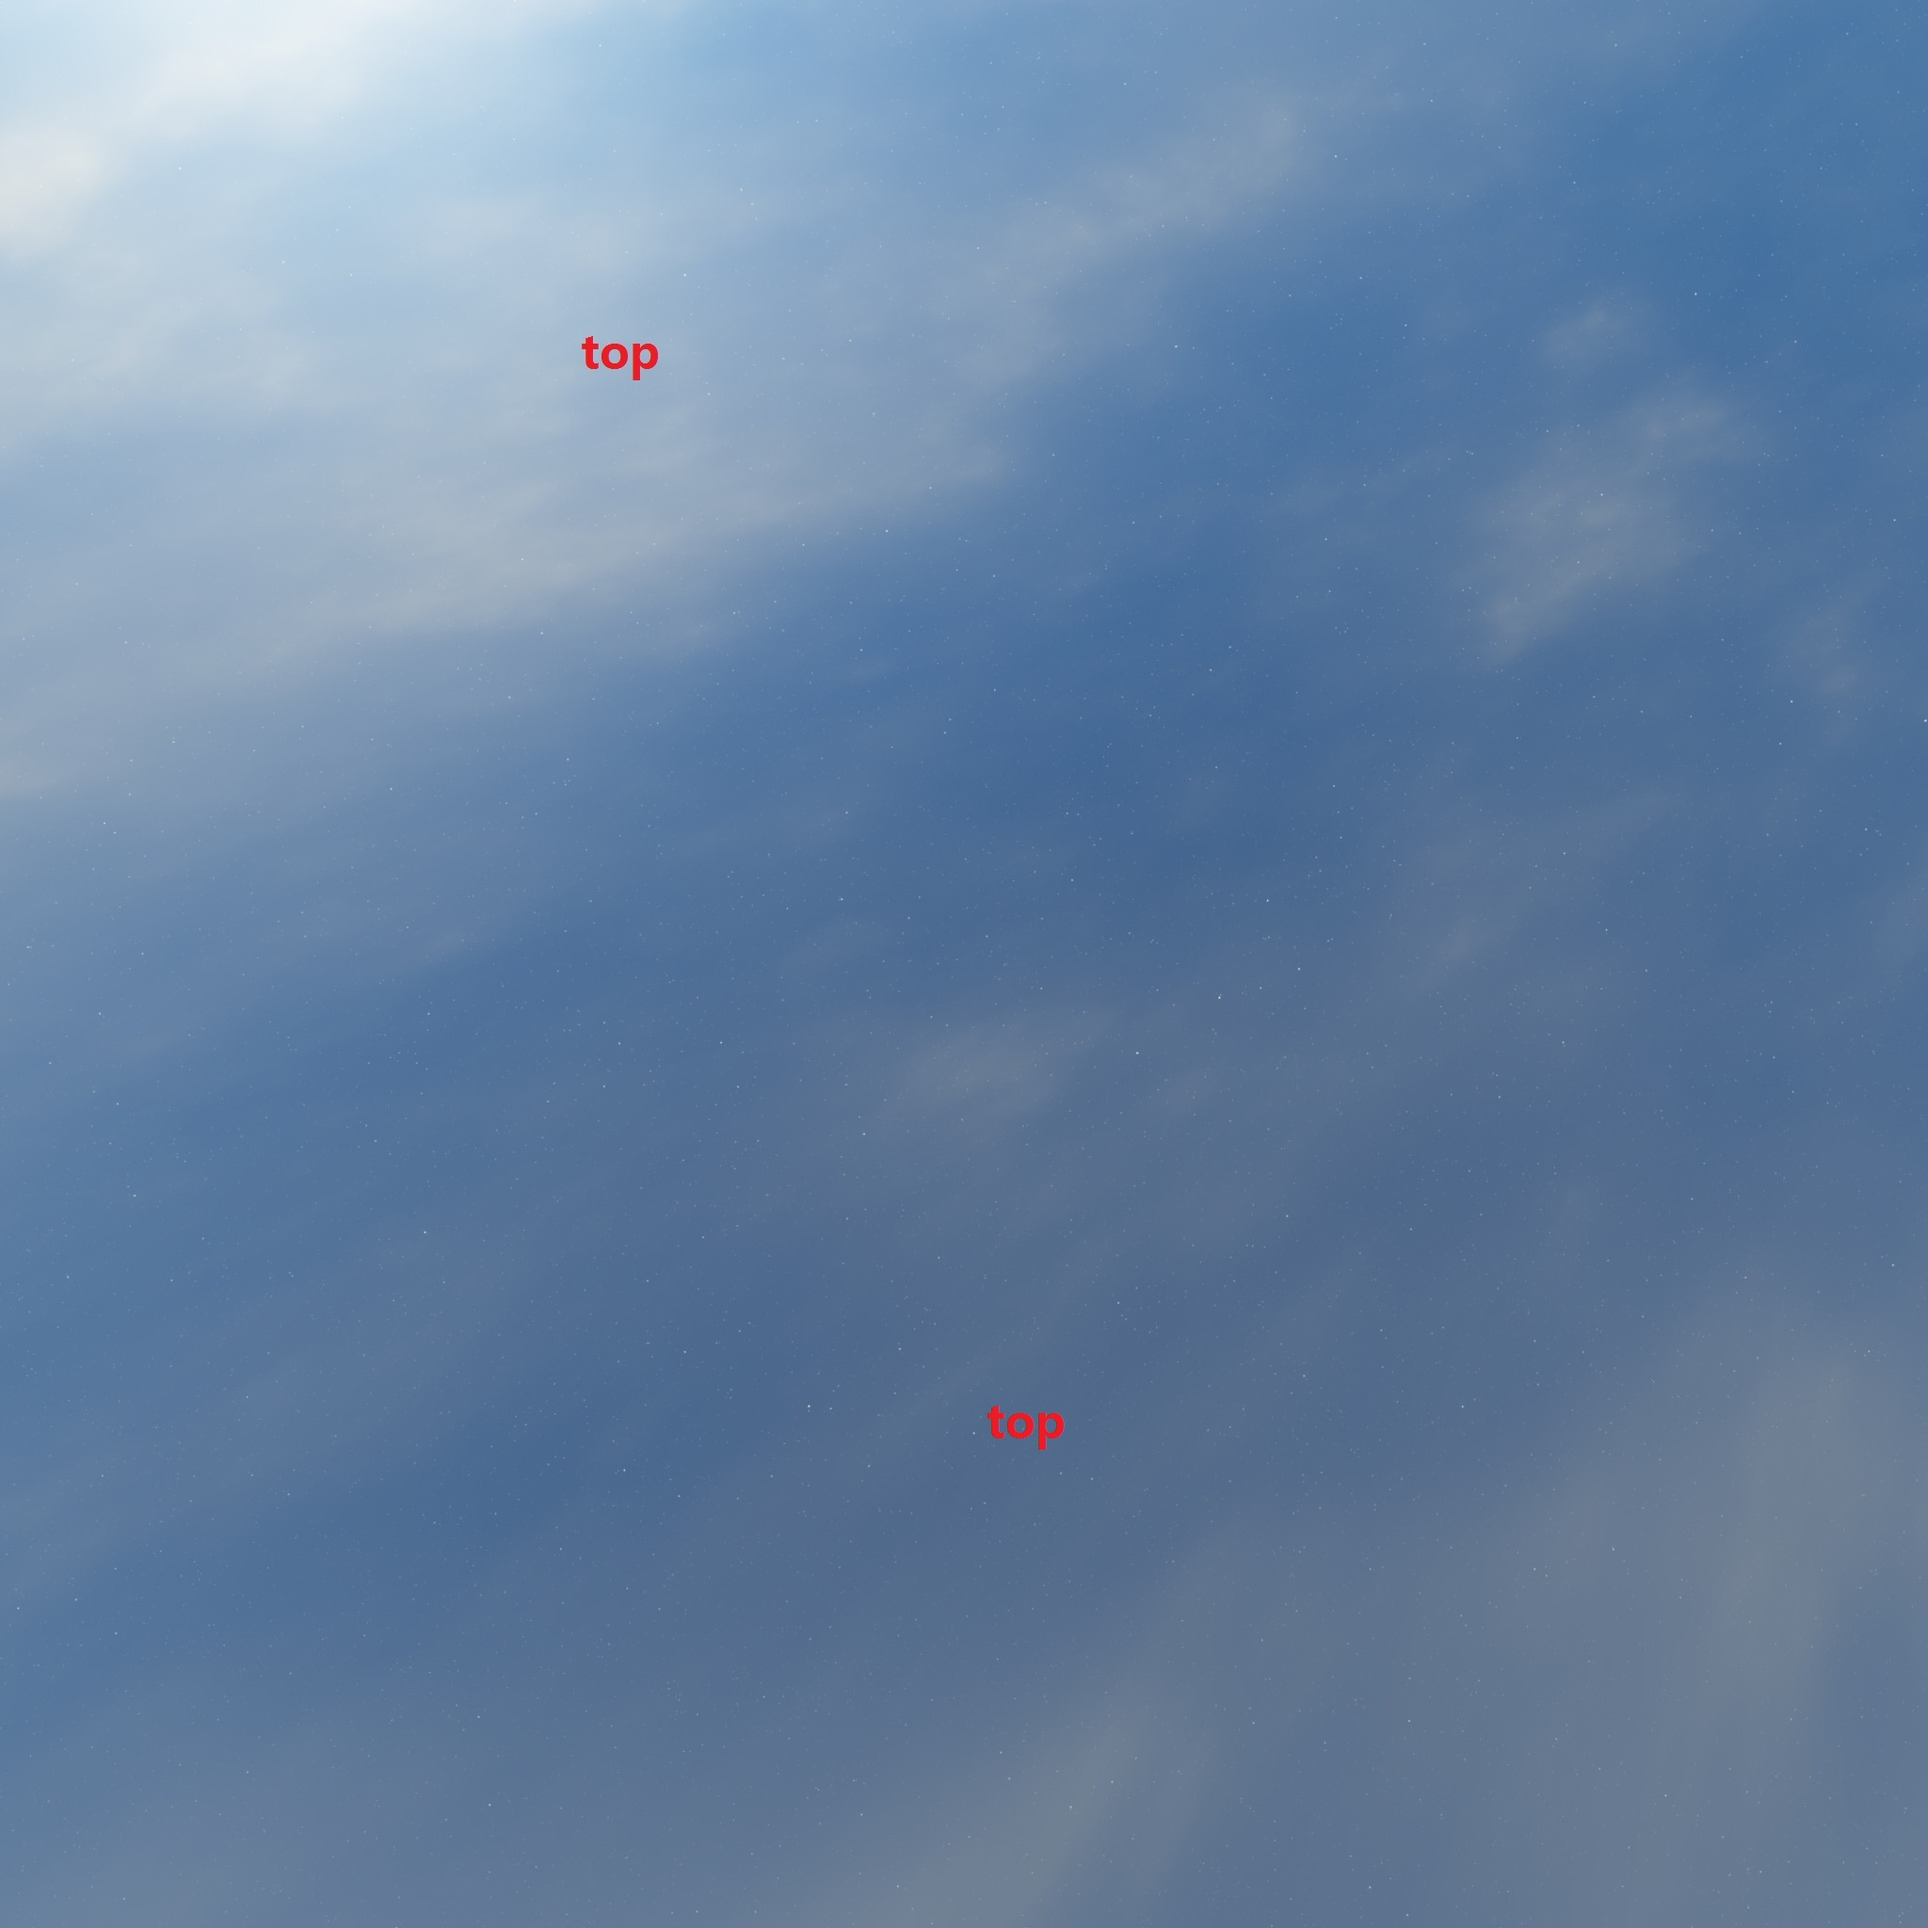
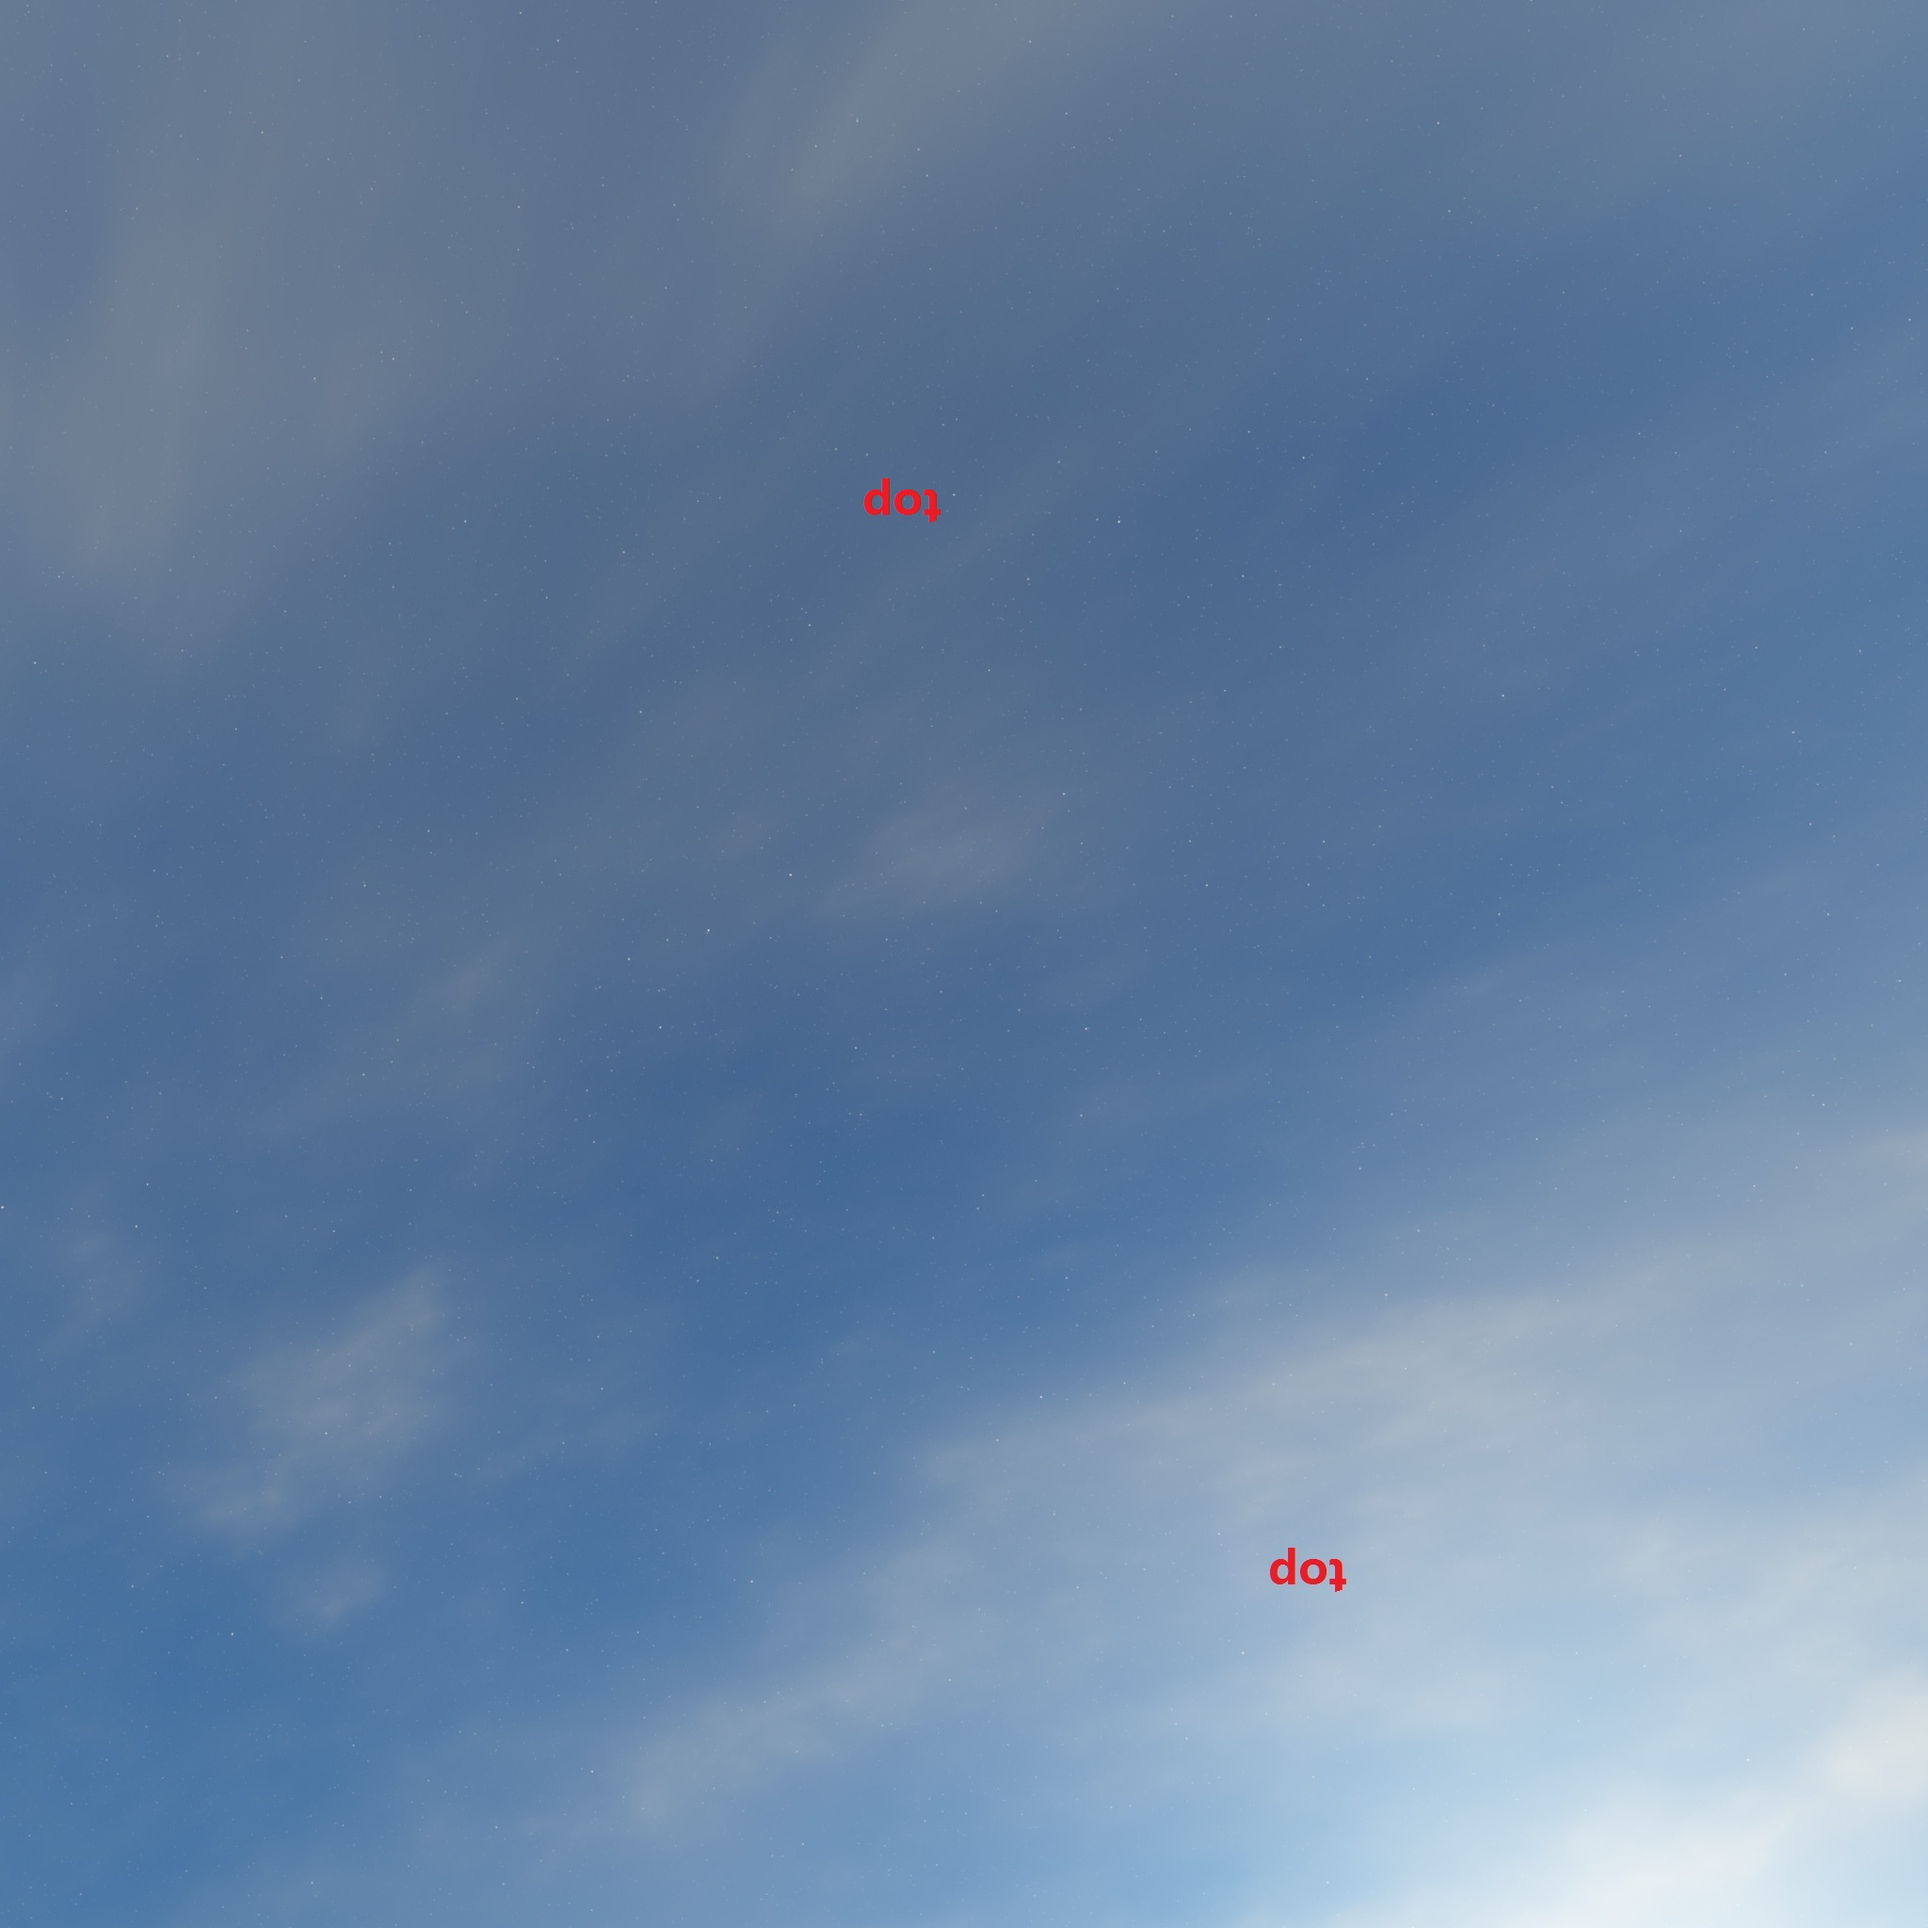
can drag skybox

diff --git a/第三章/cubemaps.html b/第三章/cubemaps.html
@@ -6,8 +6,8 @@
     <script src="../lib/webgl-utils.js"></script>
     <script src="../lib/webgl-debug.js"></script>
     <script src="../lib/cuon-utils.js"></script>
-    <!--<script src="../lib/cuon-matrix.js"></script>-->
-    <script src="//cdn.bootcss.com/gl-matrix/2.3.2/gl-matrix-min.js"></script>
+    <script src="../lib/cuon-matrix.js"></script>
+    <!--<script src="//cdn.bootcss.com/gl-matrix/2.3.2/gl-matrix-min.js"></script>-->
     <script type="text/javascript">
       //天空盒着色器 
       var skybox_vs = `
@@ -68,7 +68,7 @@
 
        var canvas, gl, skybox_program, cube_program;
        var OFF_SCREEN_WIDTH, OFF_SCREEN_HEIGHT, cubeTextureTargets;
-       var sky, cube, fbo, skyTexture, pvMatrix, t;
+       var sky, cube, fbo, skyTexture, pvMatrix, t, eyePosition;
        function main() {
            canvas = document.getElementById('myCanvas'); // canvas
            gl = canvas.getContext('webgl'); // 上下文
@@ -118,12 +118,17 @@
 
            // 视图投影矩阵
            pvMatrix = createPvMatrix({ eye: eyePosition });
+           //改用比较熟悉的矩阵
+         
 
+           // Register the event handler
+           var currentAngle = [0.0, 0.0]; // Current rotation angle ([x-axis, y-axis] degrees)
+           initEventHandlers(canvas, currentAngle);
            // 渲染循环
            t = 0;
            var loop = function () {
-               drawFBO(t); // 在帧缓冲区中绘制天空盒
-               draw(t); // 常规绘制天空盒和立方体
+               drawFBO(currentAngle); // 在帧缓冲区中绘制天空盒
+               draw(currentAngle); // 常规绘制天空盒和立方体
                t++;
                window.requestAnimationFrame(loop);
            }
@@ -131,17 +136,17 @@
        }
 
 
-       function draw(t) {
+       function draw(currentAngle) {
            gl.viewport(0, 0, canvas.width, canvas.height);
            gl.clearColor(0.0, 0.0, 0.0, 1.0);
            gl.clear(gl.COLOR_BUFFER_BIT | gl.DEPTH_BUFFER_BIT);
            gl.enable(gl.DEPTH_TEST);
 
-           drawSky(t);
-           drawCube(t);
+           drawSky(currentAngle);
+           drawCube(currentAngle);
        }
 
-       function drawFBO(t) {
+       function drawFBO(currentAngle) {
            gl.bindFramebuffer(gl.FRAMEBUFFER, fbo);
 
            gl.viewport(0, 0, OFF_SCREEN_WIDTH, OFF_SCREEN_HEIGHT);
@@ -154,8 +159,10 @@
                gl.framebufferTexture2D(gl.FRAMEBUFFER, gl.COLOR_ATTACHMENT0, target, fbo.texture, null);
 
                var eye = new Float32Array([0.0, 0.0, 0.0]);
-               var up = vec3.create();
-               var center = vec3.create();
+               //var up = vec3.create();
+               //var center = vec3.create();
+               var up = new Float32Array([0.0, 0.0, 0.0]);
+               var center = new Float32Array([0.0, 0.0, 0.0]);
 
                switch (index) {
                    case 0:
@@ -197,13 +204,13 @@
                    up: up
                });
 
-               drawSky(t, pvMatrixFBO);
+               drawSky(currentAngle, pvMatrixFBO);
            });
 
            gl.bindFramebuffer(gl.FRAMEBUFFER, null);
        }
 
-       function drawCube(t) {
+       function drawCube() {
            gl.enable(gl.CULL_FACE);
            gl.cullFace(gl.BACK);
 
@@ -217,7 +224,7 @@
            gl.vertexAttribPointer(cube_program.a_normal, 3, gl.FLOAT, false, 0, 0);
            gl.enableVertexAttribArray(cube_program.a_normal);
 
-           var mMatrix = mat4.create();
+           /*var mMatrix = mat4.create();
            var pvmMatrix = mat4.create();
            mat4.scale(mMatrix, mMatrix, new Float32Array([0.1, 0.1, 0.1]));
            mat4.multiply(pvmMatrix, pvMatrix, mMatrix);
@@ -230,6 +237,22 @@
            mat4.transpose(nMatrix, nMatrix);
            gl.uniformMatrix4fv(cube_program.u_normalMatrix, false, nMatrix);
 
+           gl.uniform3fv(cube_program.u_eyePosition, eyePosition);*/
+            
+           //换成自己比较熟悉的矩阵计算方式
+           var mMatrix = new Matrix4();
+           var pvmMatrix = new Matrix4();
+           pvmMatrix.set(pvMatrix);
+           mMatrix.scale(0.1, 0.1, 0.1);
+           pvmMatrix.multiply(mMatrix);
+           gl.uniformMatrix4fv(cube_program.u_matrix, false, pvmMatrix.elements);
+           gl.uniformMatrix4fv(cube_program.u_mMatrix, false, mMatrix.elements);
+
+           var nMatrix = new Matrix4();
+           nMatrix.setInverseOf(mMatrix);
+           nMatrix.transpose();
+           gl.uniformMatrix4fv(cube_program.u_normalMatrix, false, nMatrix.elements);
+
            gl.uniform3fv(cube_program.u_eyePosition, eyePosition);
 
            gl.activeTexture(gl.TEXTURE0);
@@ -239,7 +262,7 @@
            gl.drawElements(gl.TRIANGLES, cube.indexCount, gl.UNSIGNED_BYTE, 0);
        }
 
-       function drawSky(t, pvMatrixFBO) {
+       function drawSky(currentAngle, pvMatrixFBO) {
 
            gl.enable(gl.CULL_FACE);
            gl.cullFace(gl.FRONT);
@@ -259,12 +282,18 @@
            gl.activeTexture(gl.TEXTURE0);
            gl.bindTexture(gl.TEXTURE_CUBE_MAP, skyTexture);
 
-           var mMatrix = mat4.create();
+           /*var mMatrix = mat4.create();
            var pvmMatrix = mat4.create();
            mat4.rotate(mMatrix, mMatrix, Math.sin(t * 0.001) * Math.PI, new Float32Array([0.0, 1.0, 0.0]));
            mat4.multiply(pvmMatrix, _pvMatrix, mMatrix);
-           gl.uniformMatrix4fv(skybox_program.u_matrix, false, pvmMatrix);
-
+           gl.uniformMatrix4fv(skybox_program.u_matrix, false, pvmMatrix);*/
+           var mMatrix = new Matrix4();
+           var pvmMatrix = new Matrix4();
+           pvmMatrix.set(_pvMatrix);
+           mMatrix.rotate(currentAngle[0], 1, 0, 0);
+           mMatrix.rotate(currentAngle[1], 0, 1, 0);
+           pvmMatrix.multiply(mMatrix);
+           gl.uniformMatrix4fv(skybox_program.u_matrix, false, pvmMatrix.elements);
            gl.bindBuffer(gl.ELEMENT_ARRAY_BUFFER, sky.iBuffer);
            gl.drawElements(gl.TRIANGLES, sky.indexCount, gl.UNSIGNED_BYTE, 0);
        }
@@ -313,6 +342,19 @@
        }
 
        function createPvMatrix(params) {
+           var params = params || {};
+           var eye = params.eye || new Float32Array([0.0, 0.0, 10.0]);
+           var center = params.center || new Float32Array([0.0, 0.0, 0.0]);
+           var up = params.up || new Float32Array([0.0, 1.0, 0.0]);
+
+           var pvMatrix = new Matrix4();
+           pvMatrix.setPerspective(70.0, canvas.width / canvas.height, 0.1, 2000.0);
+           pvMatrix.lookAt(eye[0], eye[1], eye[2], center[0], center[1], center[2], up[0], up[1], up[2]);
+
+           return pvMatrix;
+       }
+
+       function _createPvMatrix(params) {
            var params = params || {};
            var eye = params.eye || new Float32Array([0.0, 0.0, 10.0]);
            var center = params.center || new Float32Array([0.0, 0.0, 0.0]);
@@ -426,6 +468,35 @@
            _loop(urls[0]);
        }
 
+       function initEventHandlers(canvas, currentAngle) {
+           var dragging = false;         // Dragging or not
+           var lastX = -1, lastY = -1;   // Last position of the mouse
+
+           canvas.onmousedown = function (ev) {   // Mouse is pressed
+               var x = ev.clientX, y = ev.clientY;
+               // Start dragging if a moue is in <canvas>
+               var rect = ev.target.getBoundingClientRect();
+               if (rect.left <= x && x < rect.right && rect.top <= y && y < rect.bottom) {
+                   lastX = x; lastY = y;
+                   dragging = true;
+               }
+           };
+
+           canvas.onmouseup = function (ev) { dragging = false; }; // Mouse is released
+
+           canvas.onmousemove = function (ev) { // Mouse is moved
+               var x = ev.clientX, y = ev.clientY;
+               if (dragging) {
+                   var factor = 100 / canvas.height; // The rotation ratio
+                   var dx = factor * (x - lastX);
+                   var dy = factor * (y - lastY);
+                   // Limit x-axis rotation angle to -90 to 90 degrees
+                   currentAngle[0] = Math.max(Math.min(currentAngle[0] + dy, 90.0), -90.0);
+                   currentAngle[1] = currentAngle[1] + dx;
+               }
+               lastX = x, lastY = y;
+           };
+       }
     </script>
 </head>
 <body onload="main()">

diff --git a/第一章/camera.html b/第一章/camera.html
@@ -219,7 +219,7 @@
             g_MvpMatrix.rotate(currentAngle[0], 1.0, 0.0, 0.0); // Rotation around x-axis
             g_MvpMatrix.rotate(currentAngle[1], 0.0, 1.0, 0.0); // Rotation around y-axis
             var cubesPos = getCubesPosition();
-            for(var i=0;i<cubesPos.length;i++){
+            for(var i=0;i<cubesPos.length;i++) {
                var rAngle = i * 20.0;
                g_modelMatrix.setTranslate(cubesPos[i][0]+0.1,cubesPos[i][1],cubesPos[i][2]+0.2);
                g_modelMatrix.rotate(rAngle,1.0, 0.3, 0.5);
